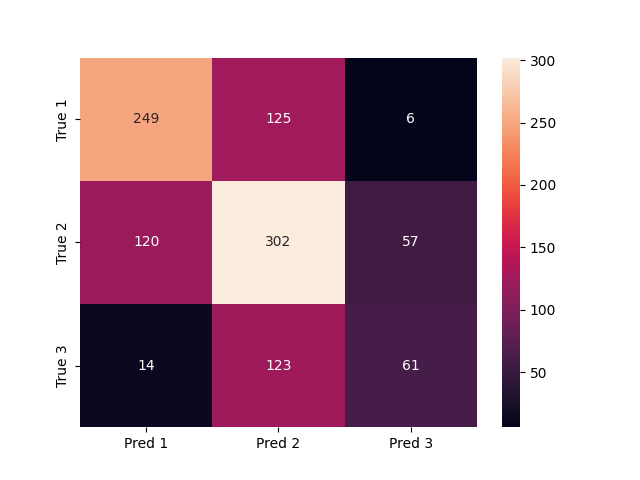
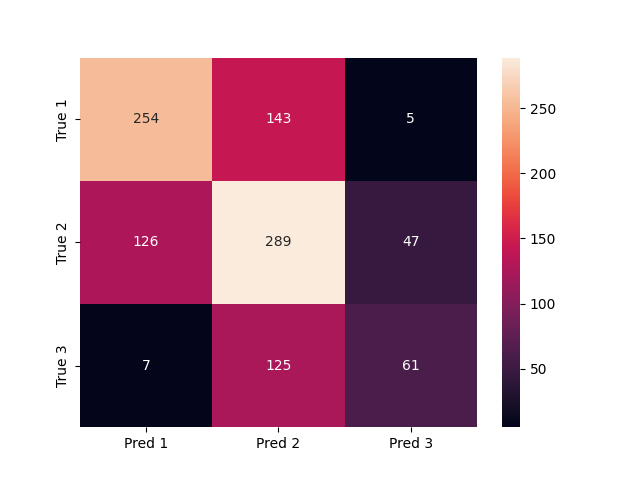
pushing changes

diff --git a/wine-quality-prediction-task/wine-batch-inference-pipeline.py b/wine-quality-prediction-task/wine-batch-inference-pipeline.py
@@ -1,3 +1,4 @@
+from collections import Counter
 import os
 import pandas as pd
 import hopsworks
@@ -9,75 +10,86 @@ import dataframe_image as dfi
 from sklearn.metrics import confusion_matrix
 from matplotlib import pyplot
 import seaborn as sns
-import requests
+import sys
 import random
 
 project = hopsworks.login()
 fs = project.get_feature_store()
 
 mr = project.get_model_registry()
-model = mr.get_model("wine_model", version=6)
+model = mr.get_model("wine_model", version=5)
 model_dir = model.download()
 model = joblib.load(model_dir + "/wine_model.pkl")
 
 feature_view = fs.get_feature_view(name="wine_features", version=1)
 batch_data = feature_view.get_batch_data()
-batch_data = batch_data.drop('wine_type', axis=1)
+batch_data = batch_data.drop("wine_type", axis=1)
 
 y_pred = model.predict(batch_data)
-#print(y_pred)
-offset = random.randint(1, y_pred.size) 
-print("Offset: " + str(offset))
-wine = y_pred[y_pred.size-offset]
-print("Wine quality predicted: " + str(wine))        
-dataset_api = project.get_dataset_api()    
+offset = random.randint(1, y_pred.size)
+print("Offset: ", int(offset))
+wine = y_pred[y_pred.size - offset]
+print("Wine quality predicted: ", int(wine))
+dataset_api = project.get_dataset_api()
 
 wine_fg = fs.get_feature_group(name="wine_features", version=1)
-df = wine_fg.read() 
-#print(df)
+df = wine_fg.read()
+# print(df)
 label = df.iloc[-offset]["quality"]
-print("Wine quality actual: " + str(label))
 
-monitor_fg = fs.get_or_create_feature_group(name="wine_predictions",
-                                            version=1,
-                                            primary_key=["datetime"],
-                                            description="Wine quality Prediction/Outcome Monitoring"
-                                            )
+print("Wine quality actual: ", int(label))
+
+monitor_fg = fs.get_or_create_feature_group(
+    name="wine_predictions",
+    version=1,
+    primary_key=["datetime"],
+    description="Wine quality Prediction/Outcome Monitoring",
+)
 
 now = datetime.now().strftime("%m/%d/%Y, %H:%M:%S")
 data = {
-    'prediction': [str(wine)],
-    'label': [str(label)],
-    'datetime': [now],
-    }
+    "prediction": [int(wine)],
+    "label": [int(label)],
+    "datetime": [now],
+}
 monitor_df = pd.DataFrame(data)
-monitor_fg.insert(monitor_df, write_options={"wait_for_job" : False})
+monitor_fg.insert(monitor_df, write_options={"wait_for_job": False})
 
 history_df = monitor_fg.read()
-# Add our prediction to the history, as the history_df won't have it - 
+# Add our prediction to the history, as the history_df won't have it -
 # the insertion was done asynchronously, so it will take ~1 min to land on App
 history_df = pd.concat([history_df, monitor_df])
 
 
 df_recent = history_df.tail(4)
-dfi.export(df_recent, './df_wine_recent.png', table_conversion = 'matplotlib')
+dfi.export(df_recent, "./df_wine_recent.png", table_conversion="matplotlib")
 dataset_api.upload("./df_wine_recent.png", "Resources/images", overwrite=True)
 
-predictions = history_df[['prediction']]
-labels = history_df[['label']]
+predictions = history_df[["prediction"]]
+labels = history_df[["label"]]
 
 # Only create the confusion matrix when our wine_predictions feature group has examples of all 3 wine qualities
-print("Number of different wine quality predictions to date: " + str(predictions.value_counts().count()))
+print(
+    "Number of different wine quality predictions to date: ",
+    int(predictions.value_counts().count()),
+)
 if predictions.value_counts().count() == 3:
     results = confusion_matrix(labels, predictions)
 
-    df_cm = pd.DataFrame(results, ['True 1', 'True 2', 'True 3', 'True', 'True 5'], 
-                    ['Pred 1', 'Pred 2', 'Pred 3', 'Pred 4', 'Pred 5']) 
+    df_cm = pd.DataFrame(
+        results,
+        ["True 1", "True 2", "True 3"],
+        ["Pred 1", "Pred 2", "Pred 3"],
+    )
 
     cm = sns.heatmap(df_cm, annot=True)
     fig = cm.get_figure()
     fig.savefig("./confusion_wine_matrix.png")
-    dataset_api.upload("./confusion_wine_matrix.png", "Resources/images", overwrite=True)
+    dataset_api.upload(
+        "./confusion_wine_matrix.png", "Resources/images", overwrite=True
+    )
 else:
     print("You need 3 different quality predictions to create the confusion matrix.")
-    print("Run the batch inference pipeline more times until you get 3 different quality wines") 
+    print(
+        "Run the batch inference pipeline more times until you get 3 different quality wines"
+    )
